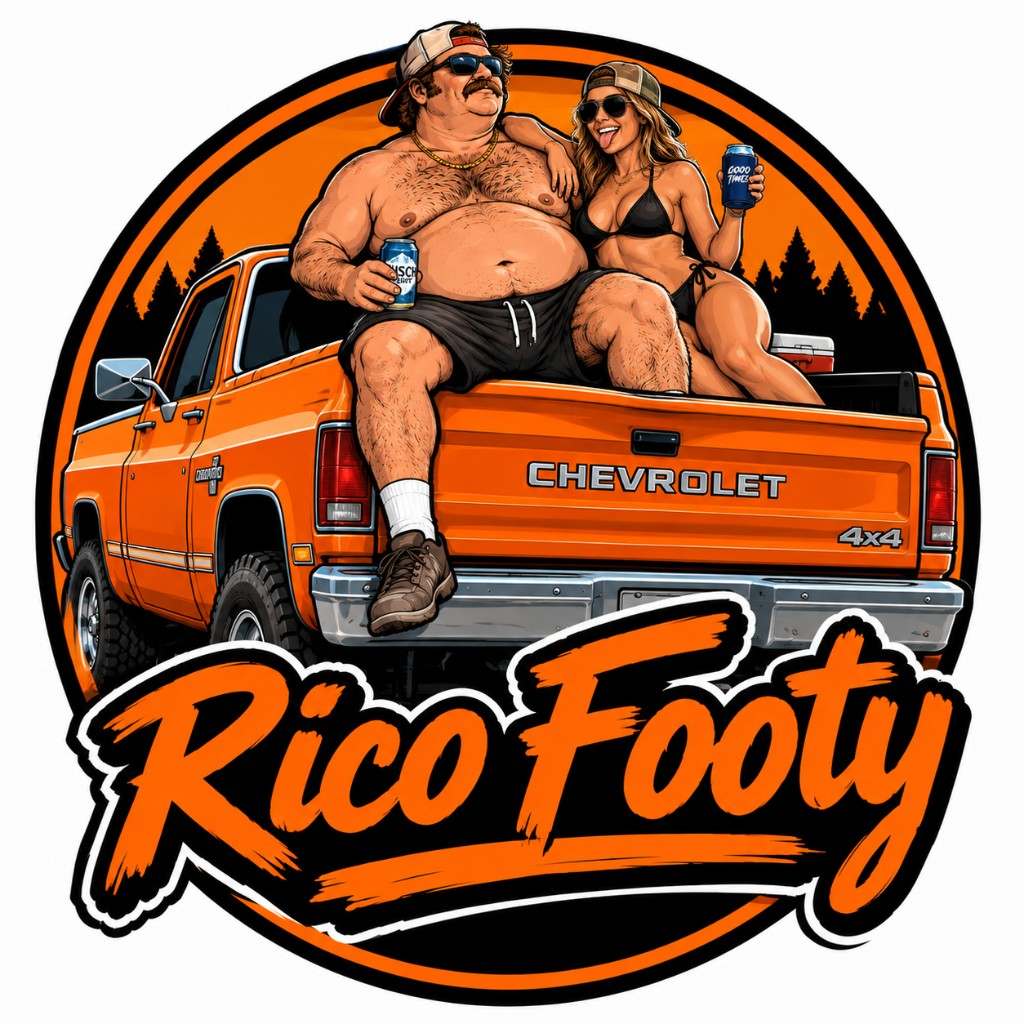
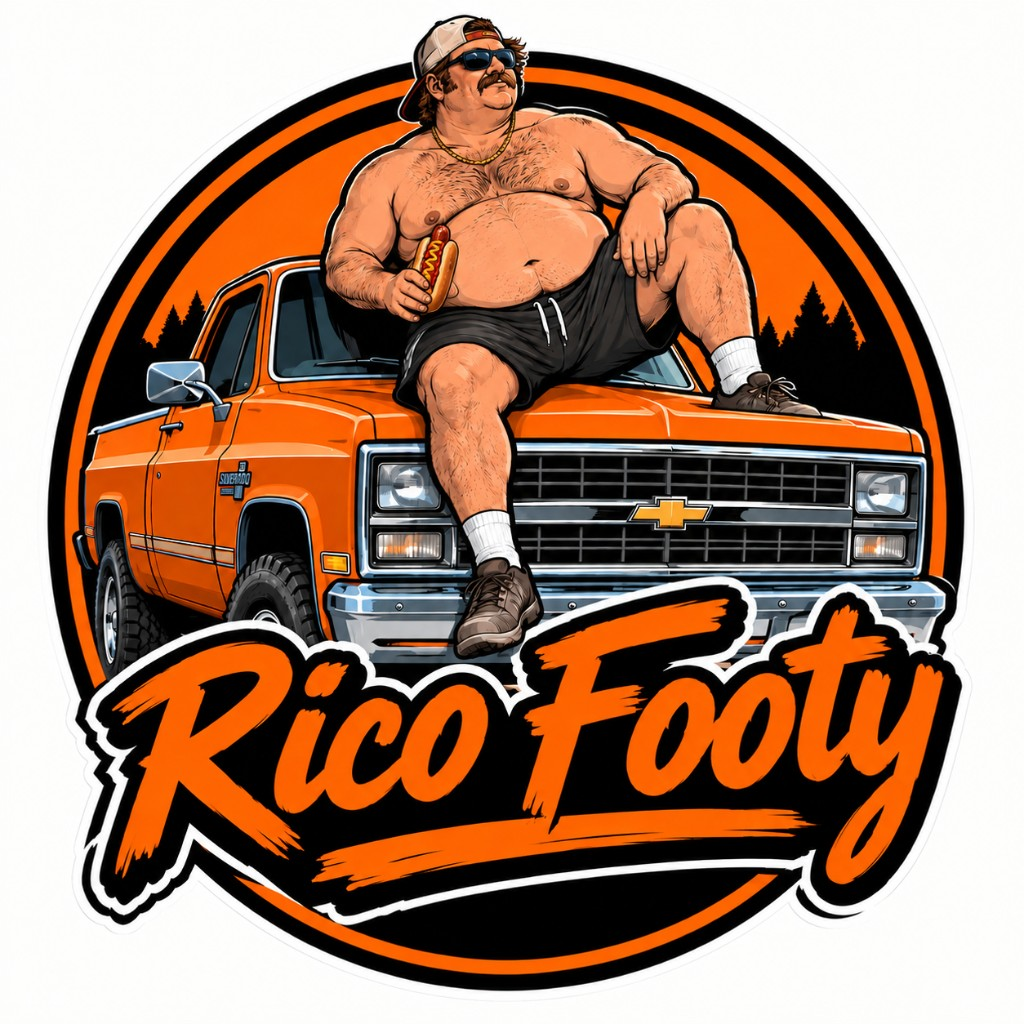
Add player profile photos and update the Rico Footy crest.

diff --git a/js/seed.js b/js/seed.js
@@ -19,7 +19,7 @@ export const SEED = {
   week: 1,
   teams: [
     { id: "dukes", name: "Dukes FC", short: "DUK", color: "#0d4d2b", color2: "#ffffff", logo: "img/dukes-fc.jpg" },
-    { id: "rico", name: "Rico Footy", short: "RICO", color: "#ea580c", color2: "#111111", logo: "img/rico-footy.jpg", coach: "Uncle Ricardo", coachTitle: "GM / Coach" },
+    { id: "rico", name: "Rico Footy", short: "RICO", color: "#ea580c", color2: "#111111", logo: "img/rico-footy.jpg?v=3", coach: "Uncle Ricardo", coachTitle: "GM / Coach" },
     { id: "bnb", name: "Team Sins", short: "SIN", color: "#7a2be2", color2: "#e10600", logo: "img/sins.jpg" },
     { id: "showtime", name: "Team Showtime", short: "SHOW", color: "#7a1020", color2: "#f4c430", logo: "img/showtime.png" },
   ],
@@ -30,6 +30,7 @@ export const SEED = {
       teamId: "dukes",
       pos: "ST",
       ovr: 95,
+      photo: "img/players/nathan.jpg",
       ...skater(95, "st"),
       offence: 95,
       shoot: 95,
@@ -44,6 +45,7 @@ export const SEED = {
       teamId: "dukes",
       pos: "ST",
       ovr: 78,
+      photo: "img/players/cole.jpg",
       ...skater(78, "st"),
       gp: 0, goals: 0, assists: 0,
     },
@@ -53,6 +55,7 @@ export const SEED = {
       teamId: "dukes",
       pos: "CB",
       ovr: 87,
+      photo: "img/players/brody.jpg",
       ...skater(87, "def"),
       defend: 87,
       vision: 35,
@@ -65,6 +68,7 @@ export const SEED = {
       teamId: "dukes",
       pos: "GK",
       ovr: 76,
+      photo: "img/players/zach.jpg",
       ...skater(76, "gk"),
       gk: 90,
       touch: 15,
@@ -72,11 +76,12 @@ export const SEED = {
       gp: 0, goals: 0, assists: 0, saves: 0,
     },
 
-    { id: "p-rivet", name: "Sammy Rivet", teamId: "rico", pos: "ST", ovr: 86, ...skater(86, "st"), gp: 0, goals: 0, assists: 0 },
+    { id: "p-rivet", name: "Sammy Rivet", teamId: "rico", pos: "ST", ovr: 86, photo: "img/players/sammy.jpg?v=2", ...skater(86, "st"), gp: 0, goals: 0, assists: 0 },
     {
       id: "p-proulx",
       name: "Grayson Proulx",
       teamId: "rico",
+      photo: "img/players/grayson.jpg?v=2",
       pos: "CB",
       ovr: 67,
       ...skater(67, "def"),
@@ -89,6 +94,7 @@ export const SEED = {
       id: "p-wrenn",
       name: "Nolan Wrenn",
       teamId: "rico",
+      photo: "img/players/nolan.jpg?v=2",
       pos: "GK",
       ovr: 83,
       ...skater(83, "gk"),
@@ -101,6 +107,7 @@ export const SEED = {
       id: "p-goldstein",
       name: "Colby Goldstein",
       teamId: "rico",
+      photo: "img/players/colby.jpg",
       pos: "CM",
       ovr: 80,
       ...skater(80, "cm"),
@@ -114,29 +121,30 @@ export const SEED = {
       id: "p-gordon",
       name: "Mason Gordon",
       teamId: "rico",
+      photo: "img/players/mason.jpg",
       pos: "—",
       ovr: null,
       gp: 0, goals: 0, assists: 0,
     },
 
-    { id: "p-daniels", name: "Brett Daniels", teamId: "bnb", pos: "GK", ovr: 79, ...skater(79, "gk"), gp: 0, goals: 0, assists: 0, saves: 0 },
-    { id: "p-varano", name: "Mark Varano", teamId: "bnb", pos: "ST", ovr: 88, ...skater(88, "st"), gp: 0, goals: 0, assists: 0 },
-    { id: "p-schwarz", name: "Ben Schwarz", teamId: "bnb", pos: "ST", ovr: 78, ...skater(78, "st"), gp: 0, goals: 0, assists: 0 },
-    { id: "p-murdock", name: "Landon Murdock", teamId: "bnb", pos: "CB", ovr: 81, ...skater(81, "def"), gp: 0, goals: 0, assists: 0 },
-    { id: "p-tober", name: "Mikey Tober", teamId: "bnb", pos: "ST", ovr: 78, ...skater(78, "st"), gp: 0, goals: 0, assists: 0 },
+    { id: "p-daniels", name: "Brett Daniels", teamId: "bnb", pos: "GK", ovr: 79, photo: "img/players/brett.jpg", ...skater(79, "gk"), gp: 0, goals: 0, assists: 0, saves: 0 },
+    { id: "p-varano", name: "Mark Varano", teamId: "bnb", pos: "ST", ovr: 88, photo: "img/players/mark.jpg", ...skater(88, "st"), gp: 0, goals: 0, assists: 0 },
+    { id: "p-schwarz", name: "Ben Schwarz", teamId: "bnb", pos: "ST", ovr: 78, photo: "img/players/ben.jpg", ...skater(78, "st"), gp: 0, goals: 0, assists: 0 },
+    { id: "p-fan", name: "Frank Fan", teamId: "bnb", pos: "CB", ovr: 81, photo: "img/players/frank.jpg", ...skater(81, "def"), gp: 0, goals: 0, assists: 0 },
+    { id: "p-tober", name: "Mikey Tober", teamId: "bnb", pos: "ST", ovr: 84, photo: "img/players/mikey.jpg", ...skater(84, "st"), gp: 0, goals: 0, assists: 0 },
 
-    { id: "p-grislis", name: "Brady Grislis", teamId: "showtime", pos: "ST", ovr: 97, ...skater(97, "st"), gp: 0, goals: 0, assists: 0 },
-    { id: "p-hayward", name: "James Hayward", teamId: "showtime", pos: "GK", ovr: 89, ...skater(89, "gk"), gp: 0, goals: 0, assists: 0, saves: 0 },
-    { id: "p-gerum", name: "Max Gerum", teamId: "showtime", pos: "CB", ovr: 84, ...skater(84, "def"), gp: 0, goals: 0, assists: 0 },
-    { id: "p-falls", name: "Fred Falls", teamId: "showtime", pos: "ST", ovr: 73, ...skater(73, "st"), gp: 0, goals: 0, assists: 0 },
+    { id: "p-grislis", name: "Brady Grislis", teamId: "showtime", pos: "ST", ovr: 97, photo: "img/players/brady.jpg", ...skater(97, "st"), gp: 0, goals: 0, assists: 0 },
+    { id: "p-hayward", name: "James Hayward", teamId: "showtime", pos: "GK", ovr: 87, photo: "img/players/james.jpg", ...skater(87, "gk"), gp: 0, goals: 0, assists: 0, saves: 0 },
+    { id: "p-gerum", name: "Max Gerum", teamId: "showtime", pos: "CB", ovr: 84, photo: "img/players/max.jpg", ...skater(84, "def"), gp: 0, goals: 0, assists: 0 },
     {
       id: "p-pacheco",
       name: "Colten Pacheco",
       aka: "Stache",
       teamId: "showtime",
       pos: "ST",
-      ovr: 82,
-      ...skater(82, "st"),
+      ovr: 90,
+      photo: "img/players/colten.jpg",
+      ...skater(90, "st"),
       gp: 0, goals: 0, assists: 0,
     },
   ],
@@ -177,7 +185,7 @@ export const SEED = {
       week: 1,
       blurb: "Four clubs, full rosters. Grislis at 97 is the new headline act.",
       ranks: [
-        { teamId: "showtime", rank: 1, prev: 4, note: "Brady Grislis at 97 OVR is the best player in Fret Footy. Hayward is a 89 in net." },
+        { teamId: "showtime", rank: 1, prev: 4, note: "Brady Grislis at 97 OVR is the best player in Fret Footy. Hayward is a 87 in net." },
         { teamId: "dukes", rank: 2, prev: 1, note: "Nathan Dono is still a 95 with zero defense. Zooms is a 76 overall with a 90 in net." },
         { teamId: "rico", rank: 3, prev: 2, note: "Uncle Ricardo’s side. Proulx finishes at 99. Goldstein wins the ugly minutes." },
         { teamId: "bnb", rank: 4, prev: 3, note: "Mark Varano at 88 is the spear. Daniels is steady in net." },
@@ -205,7 +213,7 @@ export const SEED = {
       heading: "#1 this week",
       teamId: "showtime",
       title: "Team Showtime",
-      body: "Brady Grislis at 97 OVR is the best player in Fret Footy. Hayward is a 89 in net.",
+      body: "Brady Grislis at 97 OVR is the best player in Fret Footy. Hayward is a 87 in net.",
     },
   },
 };

diff --git a/js/app.js b/js/app.js
@@ -6,7 +6,7 @@ import {
   isAdmin, logoutAdmin, clearAdminPassword, hasGithubToken, setGithubToken, clearGithubToken,
   publishLive, standings, teamById, latestPower, uid, saveVideoFile,
   loadVideoFile, youtubeId,
-} from "./store.js?v=23";
+} from "./store.js?v=47";
 
 const app = document.getElementById("app");
 const ui = {
@@ -455,6 +455,7 @@ function viewPlayers() {
         ${list.map((p) => {
           const t = teamById(data, p.teamId);
           return `<div class="player-card" data-act="player" data-id="${p.id}">
+            ${p.photo ? `<img class="player-face" src="${esc(p.photo)}" alt="" />` : ""}
             <span class="ovr">${ovrLabel(p)}</span>
             <span class="pos">${esc(p.pos)}</span>
             <div>
@@ -491,16 +492,22 @@ function playerModal() {
     ["IQ", p.iq],
     ["Anger", p.anger],
   ].filter(([, v]) => v != null);
-  return `<div class="modal-bg" data-act="close-modal"><div class="modal" data-stop="1">
-    <div class="kicker">${esc(t?.name)} · ${esc(p.pos)}${t?.coach ? ` · ${esc(t.coachTitle || "Coach")} ${esc(t.coach)}` : ""}</div>
-    <h2>${esc(p.name)} ${p.aka ? `<span class="faint">“${esc(p.aka)}”</span>` : ""} <span class="ovr">${ovrLabel(p)}</span></h2>
-    ${p.ineligible ? `<p class="ineligible">Currently ineligible</p>` : ""}
-    <p class="muted">${p.gp || 0} GP · ${p.goals || 0} goals · ${p.assists || 0} assists${p.saves ? ` · ${p.saves} saves` : ""}</p>
-    ${p.note ? `<p class="muted">${esc(p.note)}</p>` : ""}
-    <div class="attrs" style="margin-top:14px">
-      ${bars.map(([k, v]) => `<span>${k}</span><div class="bar"><i style="width:${clamp(v)}%"></i></div>`).join("")}
+  return `<div class="modal-bg" data-act="close-modal"><div class="modal profile-modal" data-stop="1">
+    <div class="profile">
+      ${p.photo ? `<img class="profile-photo" src="${esc(p.photo)}" alt="${esc(p.name)}" />` : `<div class="profile-photo empty"><span class="ovr">${ovrLabel(p)}</span></div>`}
+      <div>
+        <div class="kicker">${esc(t?.name)} · ${esc(p.pos)}${t?.coach ? ` · ${esc(t.coachTitle || "Coach")} ${esc(t.coach)}` : ""}</div>
+        <h2>${esc(p.name)} ${p.aka ? `<span class="faint">“${esc(p.aka)}”</span>` : ""}</h2>
+        <div class="profile-ovr"><span class="ovr">${ovrLabel(p)}</span><span class="faint">Overall</span></div>
+        ${p.ineligible ? `<p class="ineligible">Currently ineligible</p>` : ""}
+        <p class="muted">${p.gp || 0} GP · ${p.goals || 0} goals · ${p.assists || 0} assists${p.saves ? ` · ${p.saves} saves` : ""}</p>
+        ${p.note ? `<p class="muted">${esc(p.note)}</p>` : ""}
+        <div class="attrs" style="margin-top:14px">
+          ${bars.map(([k, v]) => `<span>${k}</span><div class="bar"><i style="width:${clamp(v)}%"></i></div>`).join("")}
+        </div>
+        <div style="margin-top:16px;text-align:right"><button class="btn" data-act="close-modal">Close</button></div>
+      </div>
     </div>
-    <div style="margin-top:16px;text-align:right"><button class="btn" data-act="close-modal">Close</button></div>
   </div></div>`;
 }
 

diff --git a/js/store.js b/js/store.js
@@ -3,7 +3,7 @@
  * Seed is only the first-run default. Admin edits are the source of truth.
  */
 
-import { SEED } from "./seed.js?v=23";
+import { SEED } from "./seed.js?v=47";
 
 const DATA_KEY = "ssl_league_fret";
 const OLD_KEYS = ["ssl_league_fret_v7", "ssl_league_fret_v6", "ssl_league_fret_v5", "ssl_league_fret_v4", "ssl_league_fret_v3"];
@@ -65,14 +65,34 @@ function mergeHome(seed, saved) {
   };
 }
 
+function withSeedPhotos(players, seed) {
+  const savedById = Object.fromEntries((players || []).map((p) => [p.id, p]));
+  return (seed.players || []).map((seeded) => {
+    const saved = savedById[seeded.id];
+    if (!saved) return { ...seeded };
+    const row = { ...saved, name: seeded.name, teamId: seeded.teamId, ovr: seeded.ovr };
+    for (const key of ["pace", "shoot", "pass", "defend", "gk"]) {
+      if (seeded[key] != null) row[key] = seeded[key];
+    }
+    if (seeded.photo) row.photo = seeded.photo;
+    else delete row.photo;
+    return row;
+  });
+}
+
+function withSeedLogos(teams, seed) {
+  const byId = Object.fromEntries((seed.teams || []).map((t) => [t.id, t]));
+  return (teams || []).map((t) => (byId[t.id]?.logo ? { ...t, logo: byId[t.id].logo } : t));
+}
+
 function hydrate(base) {
   const seed = clone(SEED);
   const saved = base && looksLikeLeague(base) ? base : seed;
   return {
     ...seed,
     ...saved,
-    teams: saved.teams?.length ? saved.teams : seed.teams,
-    players: saved.players?.length ? saved.players : seed.players,
+    teams: withSeedLogos(saved.teams?.length ? saved.teams : seed.teams, seed),
+    players: withSeedPhotos(saved.players?.length ? saved.players : seed.players, seed),
     games: saved.games?.length ? saved.games : seed.games,
     powerRankings: saved.powerRankings?.length ? saved.powerRankings : seed.powerRankings,
     news: saved.news || seed.news || [],

diff --git a/css/styles.css b/css/styles.css
@@ -106,10 +106,28 @@ tr.clickable:hover { background: rgba(200, 16, 46, 0.18); }
   font-family: var(--display); font-size: 22px; min-width: 40px; display: inline-block; text-align: center;
   color: #c8102e;
 }
+.player-face {
+  width: 52px; height: 52px; border-radius: 50%; object-fit: cover; object-position: center 18%;
+  flex-shrink: 0; border: 1px solid var(--line);
+}
 .player-card {
   display: flex; gap: 12px; align-items: center; background: var(--card-2);
   border-radius: 14px; padding: 12px; border: 1px solid var(--line); cursor: pointer;
   color: #fff;
+}
+.profile { display: grid; grid-template-columns: 200px 1fr; gap: 18px; align-items: start; }
+.profile-photo {
+  width: 200px; height: 250px; object-fit: cover; object-position: center 15%;
+  border-radius: 16px; display: block; background: #111;
+}
+.profile-photo.empty { display: grid; place-items: center; }
+.profile-ovr { display: flex; align-items: baseline; gap: 8px; margin: 6px 0 8px; }
+.profile-ovr .ovr { font-size: 42px; }
+.profile .attrs { grid-template-columns: 88px 1fr; align-items: center; }
+.profile-modal { width: min(720px, 100%); }
+@media (max-width: 640px) {
+  .profile { grid-template-columns: 1fr; }
+  .profile-photo { width: 100%; height: 280px; }
 }
 .pos { font-size: 11px; font-weight: 800; color: #c8102e; width: 32px; }
 .ineligible { color: #c8102e; font-size: 12px; font-weight: 800; text-transform: uppercase; letter-spacing: .06em; }

diff --git a/index.html b/index.html
@@ -10,10 +10,10 @@
   <link rel="preconnect" href="https://fonts.googleapis.com" />
   <link rel="preconnect" href="https://fonts.gstatic.com" crossorigin />
   <link href="https://fonts.googleapis.com/css2?family=Barlow:ital,wght@0,400;0,500;0,600;0,700;0,800;1,500&family=Oswald:wght@500;600;700&display=swap" rel="stylesheet" />
-  <link rel="stylesheet" href="css/styles.css?v=25" />
+  <link rel="stylesheet" href="css/styles.css?v=27" />
 </head>
 <body>
   <div id="app"></div>
-  <script type="module" src="js/app.js?v=25"></script>
+  <script type="module" src="js/app.js?v=47"></script>
 </body>
 </html>

diff --git a/spotlight.html b/spotlight.html
@@ -58,7 +58,7 @@
         <div class="club">
           <img src="img/spotlight/showtime.png" alt="Team Showtime crest" />
           <strong>Team Showtime</strong>
-          <span>Brady Grislis, 97, leads the league. James Hayward, 89, is in goal.</span>
+          <span>Brady Grislis, 97, leads the league. James Hayward, 87, is in goal.</span>
         </div>
         <div class="club">
           <img src="img/spotlight/dukes.jpg" alt="Dukes FC crest" />
